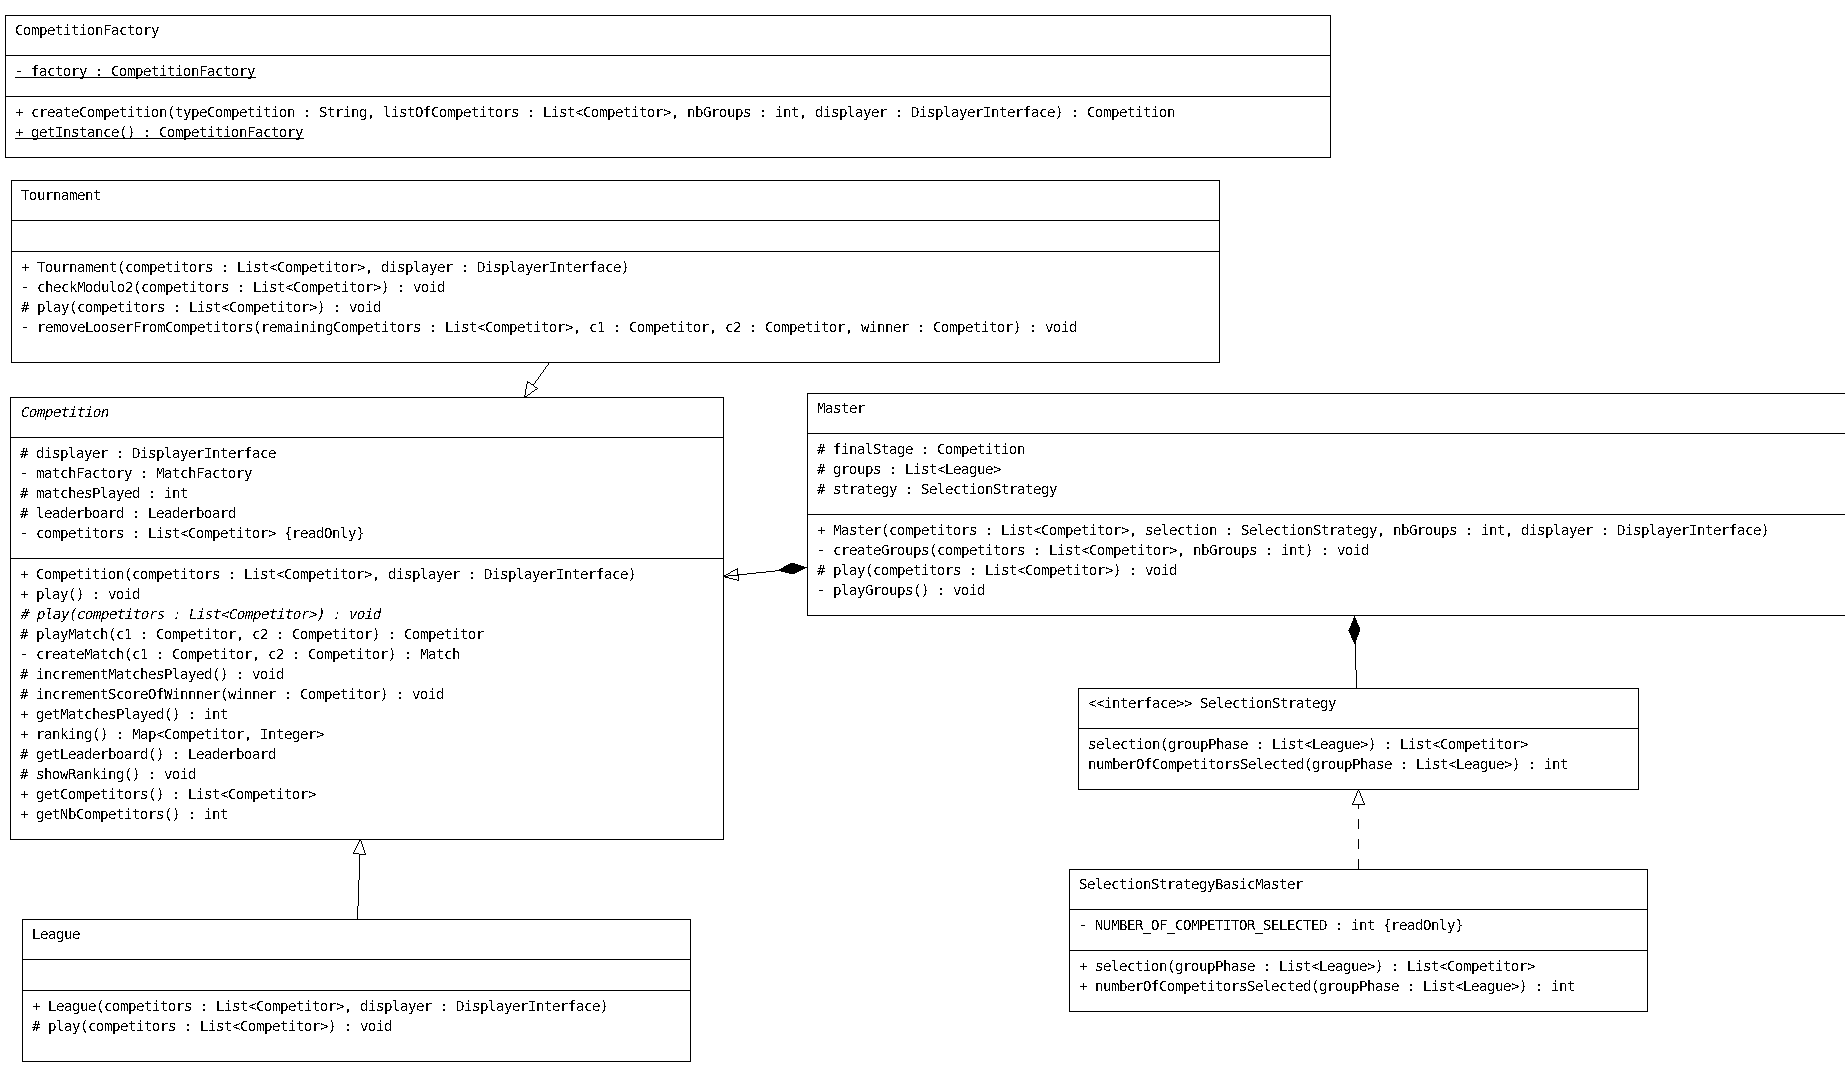
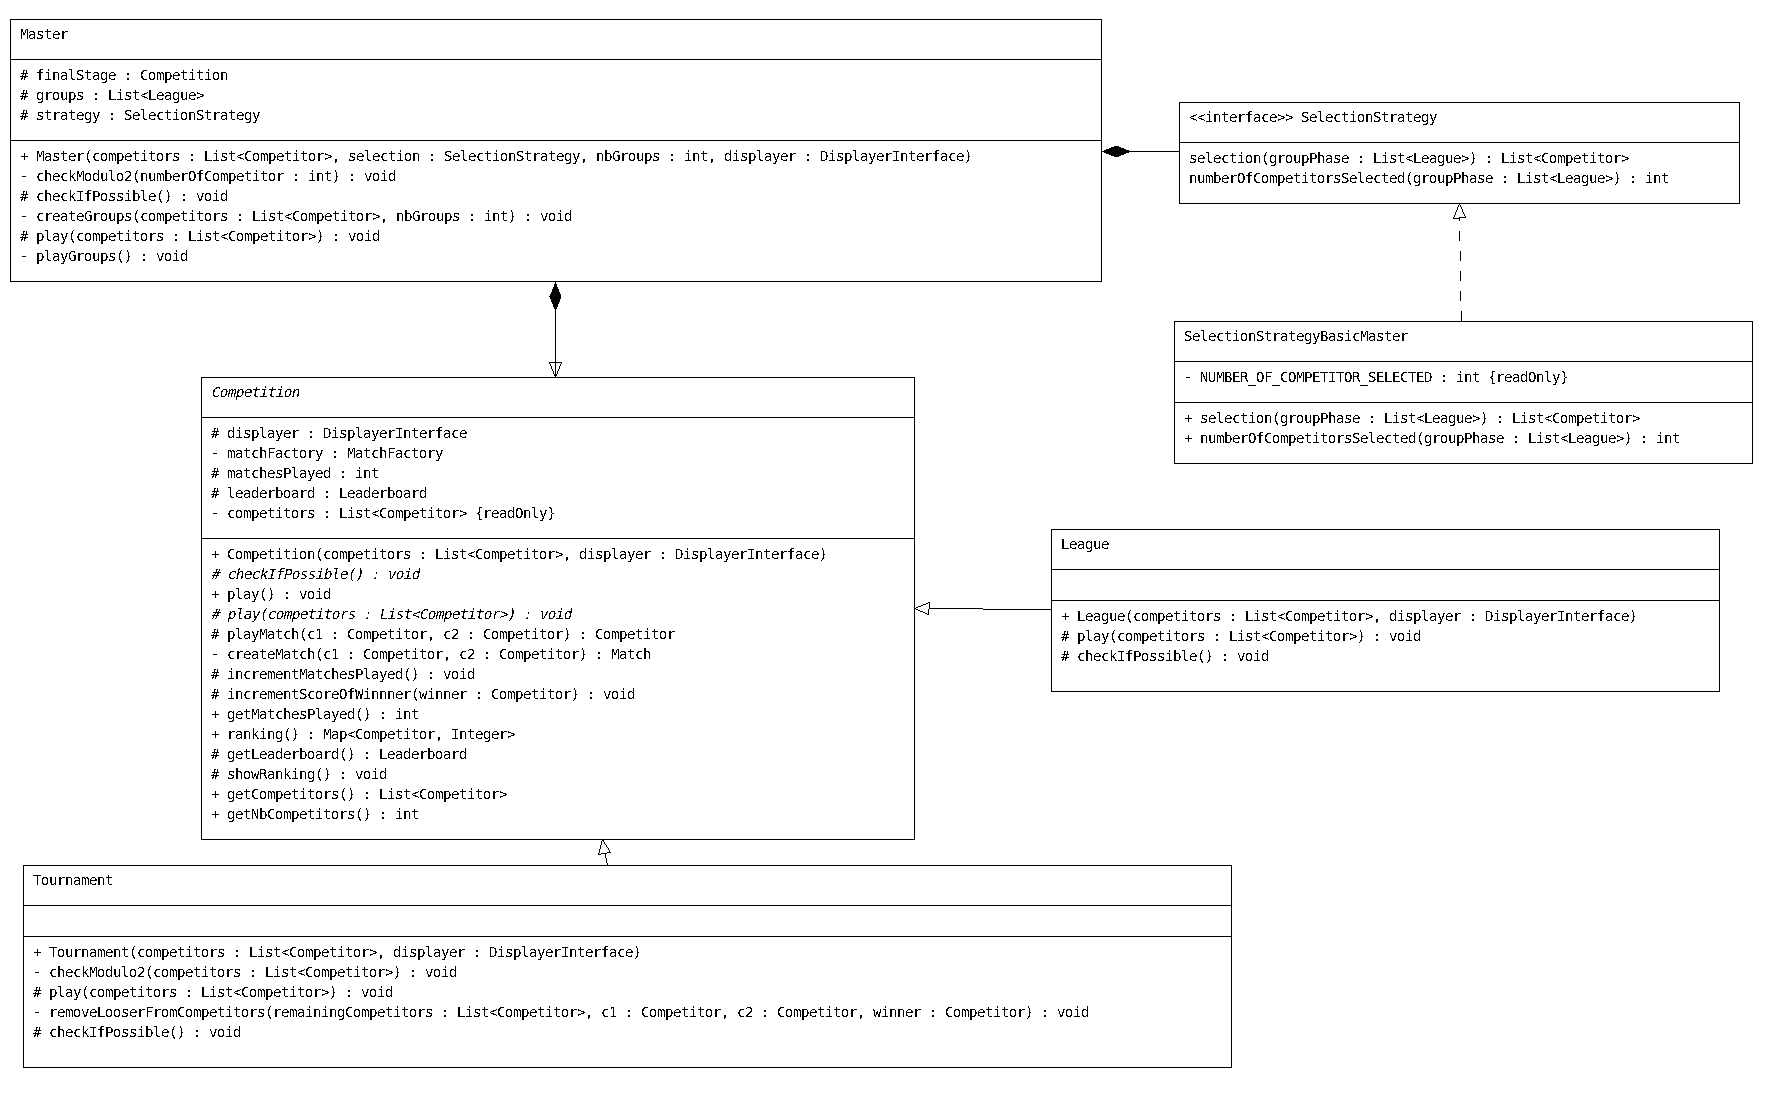
modif main for new exception and breakdown of the main function

diff --git a/src/fr/ulille/l3/application/Main.java b/src/fr/ulille/l3/application/Main.java
@@ -12,12 +12,11 @@ import java.util.Scanner;
 
 import fr.ulille.l3.competitions.Competition;
 import fr.ulille.l3.competitions.CompetitionFactory;
-import fr.ulille.l3.exceptions.CompetitorsNumberNotPowerOf2Exception;
-import fr.ulille.l3.exceptions.EmptyCompetitorsListException;
-import fr.ulille.l3.exceptions.InvalidNumberOfGroupException;
+import fr.ulille.l3.exceptions.CannotCreateCompetitionException;
 import fr.ulille.l3.exceptions.NoSuchTypeOfCompetitionException;
 import fr.ulille.l3.modele.Competitor;
 import fr.ulille.l3.util.BasicDisplayer;
+import fr.ulille.l3.util.TypeOfCompetition;
 
 /**
  * Main class that runs the project. Asks for competitors and a type of competition before playing it.
@@ -28,8 +27,23 @@ import fr.ulille.l3.util.BasicDisplayer;
 public class Main {
 
 	public final static String name = "res" + File.separator + "name.csv";
+	public final static Scanner sc = new Scanner(System.in);
+	public final static BasicDisplayer displayer = BasicDisplayer.getInstance();
+
+	public static void main(String[] args) throws NullPointerException, NoSuchTypeOfCompetitionException, CannotCreateCompetitionException {
+		List<Competitor> competitors = createListCompetitors();
+		Competition competition = createCompetition(competitors);
+		sc.close();
+		competition.play();
+	}
 	
-	public ArrayList<String> getNameFromFile(String pathToFile){
+	
+	/**
+	 * Method that open a file as a stream and convert the line in a arrayList of String this method is neccessairy because file in a jar are not considered like file but stream.
+	 * @param pathToFile The path of file that will be opened
+	 * @return ArrayList<String> the list with all the name of the CSV file.
+	 */
+	private ArrayList<String> getNameFromFile(String pathToFile){
 		ArrayList<String> listOfName = new ArrayList<>();
 		InputStream is = getClass().getClassLoader().getResourceAsStream(pathToFile);
 		InputStreamReader isr = new InputStreamReader(is);
@@ -49,36 +63,16 @@ public class Main {
 		}
 		return listOfName;
 	}
-	
-	
-	public static void main(String[] args) throws NullPointerException, EmptyCompetitorsListException, CompetitorsNumberNotPowerOf2Exception, NoSuchTypeOfCompetitionException, InvalidNumberOfGroupException {
-		BasicDisplayer displayer = new BasicDisplayer();
-		displayer.display("Entrez votre nombre de compétiteurs");
-		Scanner sc = new Scanner(System.in);
-		int nbOfCompetitors = 0;
-		try {
-			nbOfCompetitors = Integer.parseInt(sc.next());
-		}
-		catch (NumberFormatException exception) {
-			System.exit(1);
-		}
-		
-		List<Competitor> competitors = new ArrayList<>();
-		List<String> listOfName = null;
-		Random rng = new Random();
-		listOfName = new Main().getNameFromFile(name);
 
-		for(int i = 0; i < nbOfCompetitors; i++) {
-			Competitor compet = new Competitor(listOfName.get(rng.nextInt(listOfName.size())));
-			System.out.println(compet);
-			competitors.add(compet);
-		}
-		
+	private static Competition createCompetition(List<Competitor> competitors) throws NoSuchTypeOfCompetitionException, NullPointerException, CannotCreateCompetitionException {
 		displayer.display("Veuillez entrer votre type de competition parmi :");
 		displayer.display("League, Tournament ou Master");
-		
-		String answer = sc.next();
-		answer = answer.toLowerCase();
+		String answer = sc.next().toLowerCase();
+		while(!TypeOfCompetition.contains(answer)) {
+				displayer.display("Nom de compétition invalide ! ");
+				displayer.display("League, Tournament ou Master");
+				answer = sc.next().toLowerCase();
+			}
 		int nbGroups = 0;
 		Competition competition = null;
 		if(answer.equals("master")) {
@@ -95,8 +89,31 @@ public class Main {
 			CompetitionFactory factory = new CompetitionFactory();
 			competition = factory.createCompetition(answer, competitors, nbGroups,displayer);
 		}
-		sc.close();
+		return competition;
+	}
 
-		competition.play();
+
+
+	private static List<Competitor> createListCompetitors() {
+		displayer.display("Entrez votre nombre de compétiteurs");
+		int nbOfCompetitors = 0;
+		try {
+			nbOfCompetitors = Integer.parseInt(sc.next());
+		}
+		catch (NumberFormatException exception) {
+			System.exit(1);
+		}
+
+		List<Competitor> competitors = new ArrayList<>();
+		List<String> listOfName = null;
+		Random rng = new Random();
+		listOfName = new Main().getNameFromFile(name);
+
+		for(int i = 0; i < nbOfCompetitors; i++) {
+			Competitor compet = new Competitor(listOfName.get(rng.nextInt(listOfName.size())));
+			System.out.println(compet);
+			competitors.add(compet);
+		}
+		return competitors;
 	}
 }

diff --git a/src/fr/ulille/l3/competitions/Competition.java b/src/fr/ulille/l3/competitions/Competition.java
@@ -36,12 +36,11 @@ public abstract class Competition {
 	}
 
 	protected abstract void checkIfPossible() throws CannotCreateCompetitionException;
+	protected abstract void play(List<Competitor> competitors);
 	
 	public void play() {
 		this.play(competitors);
 	}
-
-	protected abstract void play(List<Competitor> competitors);
 
 	/**
 	 * Default behaviour of a Match, winner is chosen randomly at this point

diff --git a/src/fr/ulille/l3/util/TypeOfCompetition.java b/src/fr/ulille/l3/util/TypeOfCompetition.java
@@ -12,4 +12,13 @@ public enum TypeOfCompetition {
 	public String getLabel() {
 		return this.label;
 	}
+
+	public static boolean contains(String lowerCase) {
+		for(int i = 0; i < values().length; i++) {
+			if(lowerCase.equals(values()[i].getLabel())) {
+				return true;
+			}
+		}
+		return false;
+	}
 }

diff --git a/README.md b/README.md
@@ -79,7 +79,7 @@ firefox index.html
 ## Matchs
 ![umlMatch](./Screenshots/umlMatch.png "UML des matchs")
 
-## Modèle V1
+## Modèle
 ![umlModel](./Screenshots/umlModele.png "UML du modèle")
 
 ## Exception V1
@@ -129,10 +129,15 @@ Nous avons créer une interface pour les displayer. Le but est simple, pouvoir c
 
 Ce design pattern (strategy) à été utilisé dans la V2 du projet afin de mieux respecter les valeurs de l'open closed. En effet grâce à cette strategy nous pouvons décider de juste implémenter une nouvelle classe qui inclu l'interface Selection Strategy et redefinir le mode de séléction de la première phase à la seconde phase d'un master et de ce fait nous n'avons pas besoin de modifier le code de la classe master. 
 
-## Enum type of competition (V2)
+## Enum typeOfCompetition (V2)
 
 Nous avons décidé de créer également une énumeration enrichie qui ne sert pour le moment que pour les noms des différentes compétitions, cette énumération nous permet de centraliser les Strings que nous utilisons dans le code pour décider quel compétitions créer. Cela permet d'uniformiser ces Strings dans tout le code.
 
+## Héritage d'exception (V2)
+
+Nous avons rajouter une couche d'abstraction au niveau des exceptions. Cela nous permet de regrouper les exceptions concernant les problèmes de création de compétitions sous la même classe, CannotCreateCOmpetitionException. En plus d'améliorer la visibilté, cela nous permet de throws ce type d'exception dans l'abstraction de compétition.
+
+
 # V2 Remarques générales
 
-Dans cette V2 nous devions implémenter un nouveau type de compétition nommé Master. Cette compétition est prévue de telle sorte à avoir une première phase de qualification, une de séléction et finalement une phase finale avec les joueurs séléctionnés. Pour réaliser cette V2, nous avons donc décider de reprendre ce que nous avions déjà créé, nous avons donc effectué ce fonctionnement avec le principe suivant : une liste de compétition qui représente la première partie du master, chaque compétition dans cette liste étant joué une par une. Pour la selection nous avons, comme vu précédemment, implémenter un design pattern de strategy pour pouvoir définir les règles d'accésibilité a la phase finale. Pour finir pour la phase finale, celle ci est définie comme un Tournamenent qui est joué avec les joueurs qualifiés. Cette implémentation était assez facile à réaliser comme nous avions pensé au principe open-closed dès la v1.
+Dans cette V2 nous devions implémenter un nouveau type de compétition nommé Master. Cette compétition est prévue de telle sorte à avoir une première phase de qualification, une de séléction et finalement une phase finale avec les joueurs séléctionnés. Pour réaliser cette V2, nous avons donc décider de reprendre ce que nous avions déjà créé, nous avons donc effectué ce fonctionnement avec le principe suivant : une liste de compétition qui représente la première partie du master, chaque compétition dans cette liste étant joué une par une. Pour la selection nous avons, comme vu précédemment, implémenter un design pattern de strategy pour pouvoir définir les règles d'accésibilité a la phase finale. Pour finir pour la phase finale, celle ci est définie comme un Tournamenent qui est joué avec les joueurs qualifiés. Cette implémentation était assez facile à réaliser comme nous avions pensé au principe open-closed dès la v1. Nous avons également rajouté une méthode qui permet pour chaque compétition de vérifier si celle ci est créable. A la fin de chaque constructeur, cette méthode est appelée et ensuite vérifiera selon le type de compétition et ses paramètres de création si la création est en effet possible.
